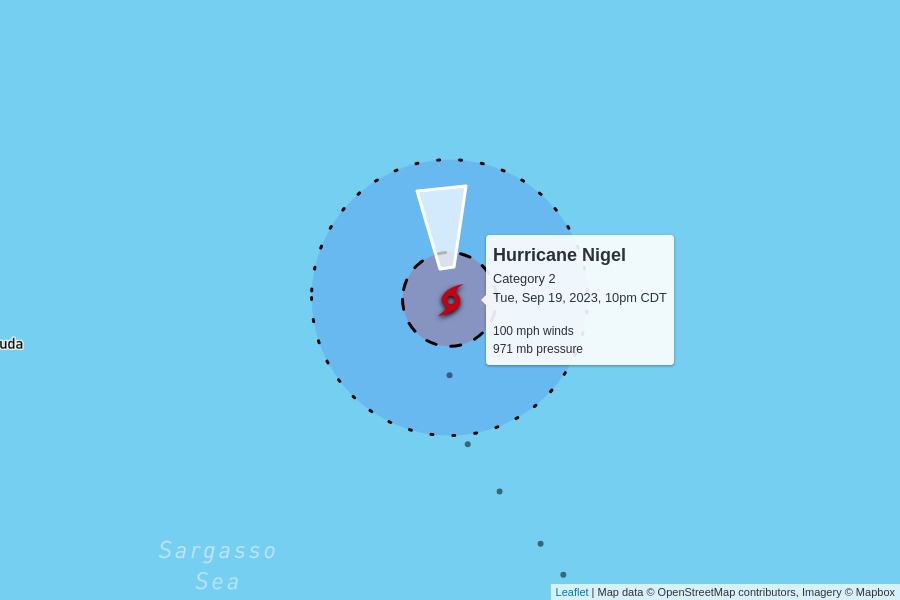
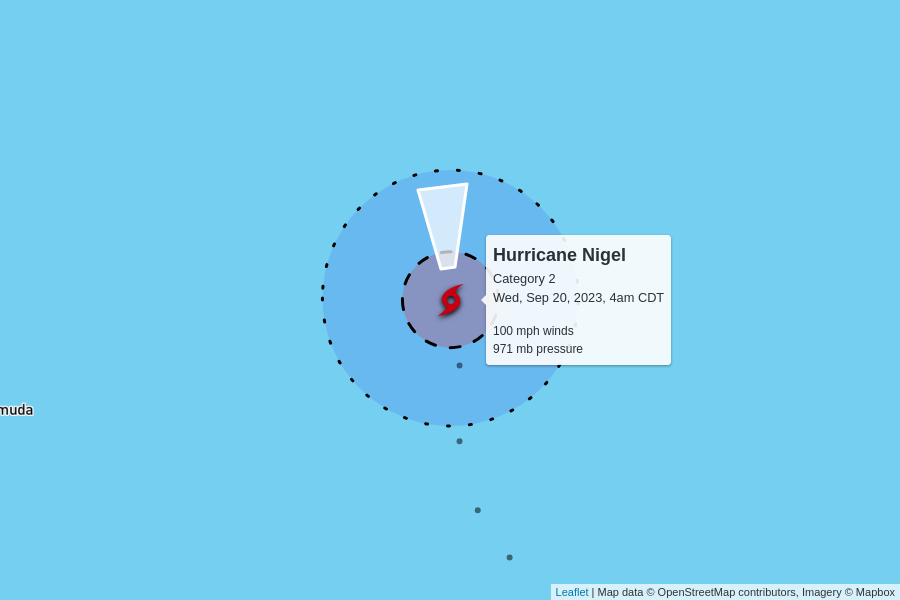
automatic update

diff --git a/docs/index.html b/docs/index.html
@@ -102,7 +102,7 @@
         <td colspan="6" class="storm category-2" >
           <h2>
             Hurricane Nigel - Category 2
-            <p class="updated">last updated <span data-time>2023-09-20T03:00:00.000Z</span></p>
+            <p class="updated">last updated <span data-time>2023-09-20T09:00:00.000Z</span></p>
           </h2>
         </td>
       </tr>
@@ -118,9 +118,9 @@
       <tr>
         <td class="spacer"></td>
         <td>100 mph<br>0 mph since last update</td>
-        <td>971 mb<br>-3 mb since last update</td>
+        <td>971 mb<br>0 mb since last update</td>
         <td>
-          15 mph to the north
+          16 mph to the north
           <br/>
           <span style="display: inline-block; font-size: 1.5em; transform: rotate(355deg);">↑</span>
         </td>
